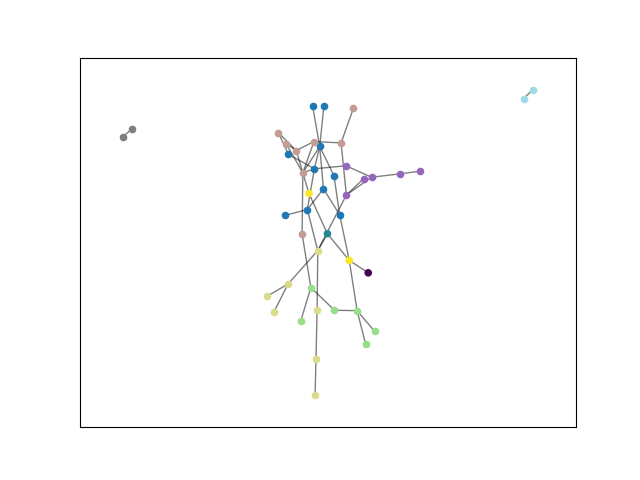
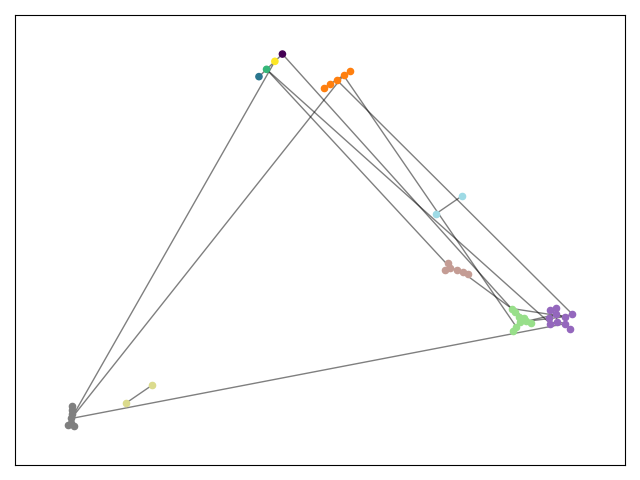
Update visualization

diff --git a/scripts/partition.py b/scripts/partition.py
@@ -20,12 +20,23 @@ q = nx.community.modularity(G, nx.community.label_propagation_communities(G))
 print(f"graph: communities={ncommunities}, modularity={q}")
 
 if "DRAW" in os.environ:
+    # Compute positions for the node clusters as if they were themselves nodes in a
+    # supergraph using a larger scale factor
+    supergraph = nx.cycle_graph(len(communities))
+    superpos = nx.spring_layout(G, scale=50, seed=429)
+
+    # Use the "supernode" positions as the center of each node cluster
+    centers = list(superpos.values())
+    pos = {}
+    for center, comm in zip(centers, communities):
+        pos.update(nx.spring_layout(nx.subgraph(G, comm), center=center, seed=1430))
+
     cmap = plt.get_cmap("tab20")
     colors = [cmap(i) for i in np.linspace(0, 1, ncommunities)]
-    pos = nx.spring_layout(G)
     for i, nodes in enumerate(communities):
         nx.draw_networkx_nodes(
             G, pos, nodelist=nodes, node_size=20, node_color=colors[i]
         )
     nx.draw_networkx_edges(G, pos, alpha=0.5)
+    plt.tight_layout()
     plt.show()
